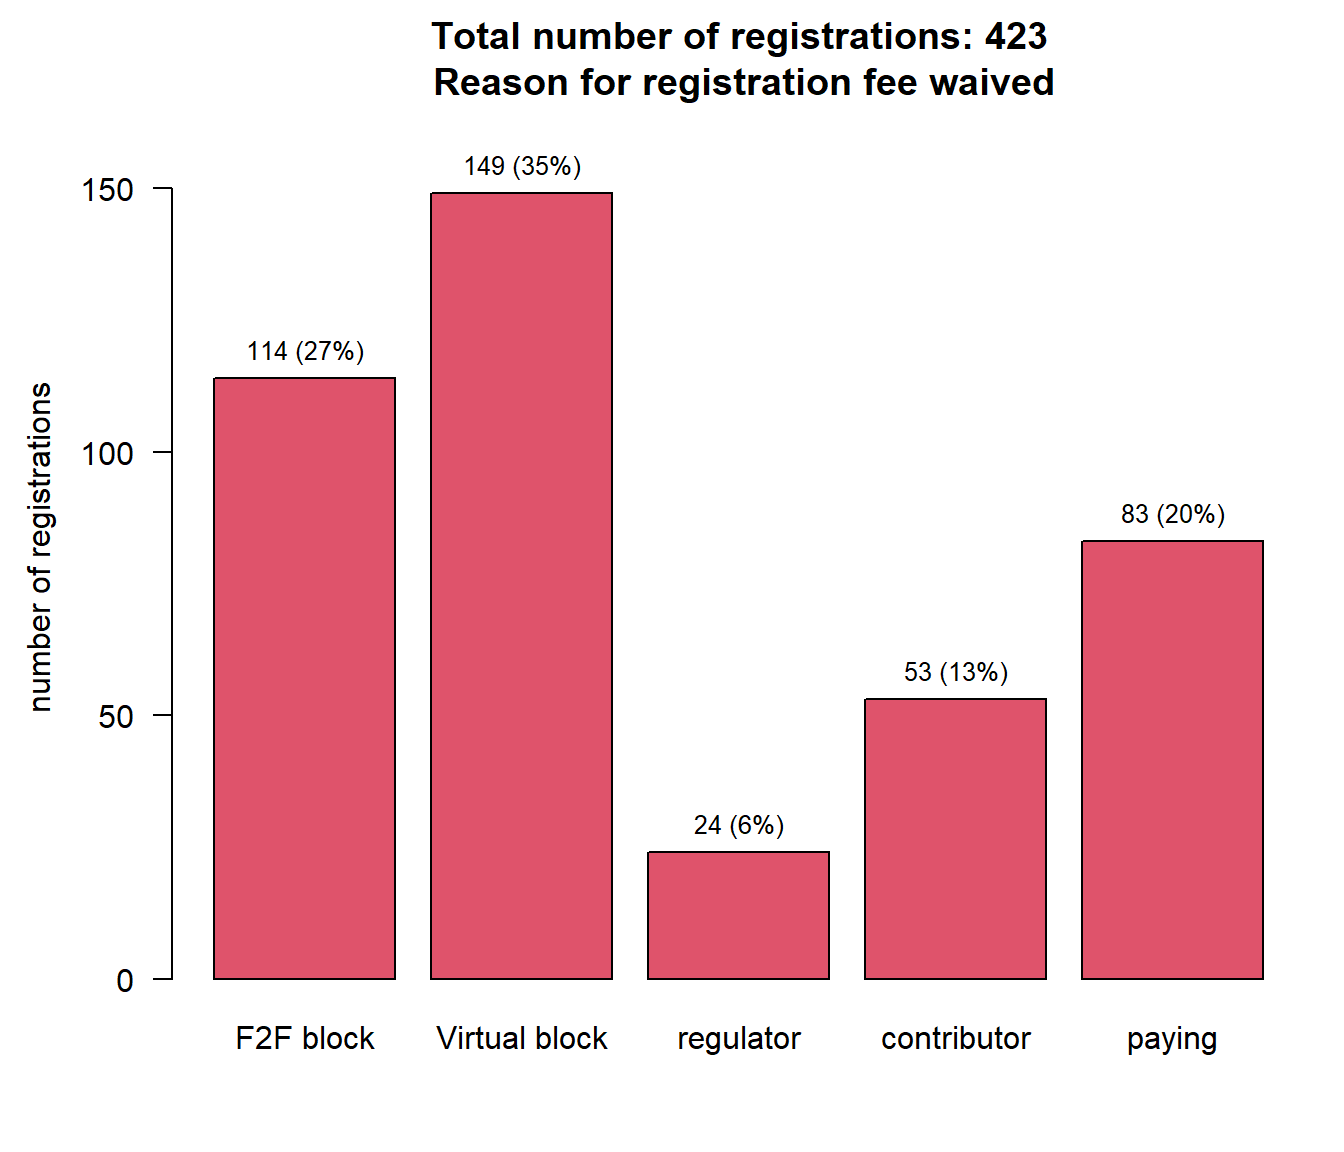
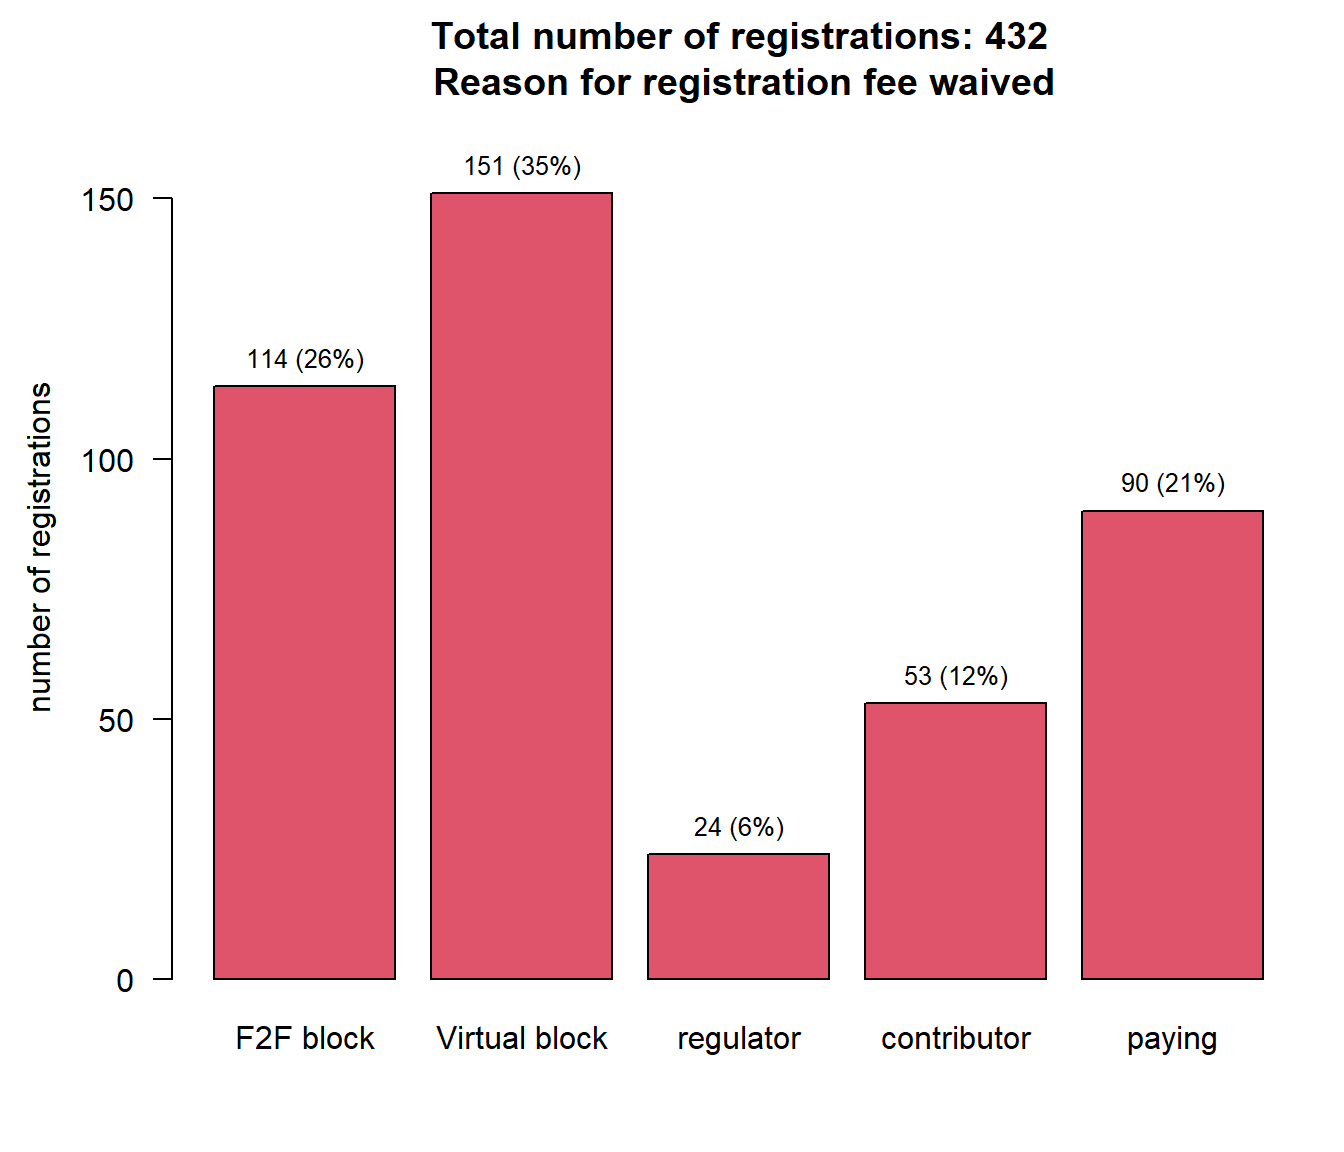
update

diff --git a/docs/data/2025/analysis2025.html b/docs/data/2025/analysis2025.html
@@ -7,7 +7,7 @@
 <meta name="viewport" content="width=device-width, initial-scale=1.0, user-scalable=yes">
 
 <meta name="author" content="Kaspar Rufibach">
-<meta name="dcterms.date" content="2025-07-16">
+<meta name="dcterms.date" content="2025-07-17">
 
 <title>EFSPI regulatory statistics workshop - EFSPI regulatory statistics workshop 2025: analysis of registrations</title>
 <style>
@@ -204,7 +204,7 @@ ul.task-list li input[type="checkbox"] {
     <div>
     <div class="quarto-title-meta-heading">Published</div>
     <div class="quarto-title-meta-contents">
-      <p class="date">July 16, 2025</p>
+      <p class="date">July 17, 2025</p>
     </div>
   </div>
   
@@ -216,7 +216,7 @@ ul.task-list li input[type="checkbox"] {
 
 <section id="data-status" class="level1">
 <h1>Data status</h1>
-<p>Data as of 2025-07-16 at 15:37:12.</p>
+<p>Data as of 2025-07-17 at 11:50:13.</p>
 </section>
 <section id="registrations-by-type-of-institution" class="level1">
 <h1>Registrations by type of institution</h1>
@@ -394,9 +394,9 @@ ul.task-list li input[type="checkbox"] {
 <tr class="header">
 <th style="text-align: left;"></th>
 <th style="text-align: center;">Bayer (N=46)</th>
-<th style="text-align: center;">BMS (N=74)</th>
+<th style="text-align: center;">BMS (N=76)</th>
 <th style="text-align: center;">Merck KGaA (N=46)</th>
-<th style="text-align: center;">Total (N=166)</th>
+<th style="text-align: center;">Total (N=168)</th>
 </tr>
 </thead>
 <tbody>
@@ -410,16 +410,16 @@ ul.task-list li input[type="checkbox"] {
 <tr class="even">
 <td style="text-align: left;">&nbsp;&nbsp;&nbsp;Face-to-face (280 Euro)</td>
 <td style="text-align: center;">12 (26.1%)</td>
-<td style="text-align: center;">3 (4.1%)</td>
+<td style="text-align: center;">3 (3.9%)</td>
 <td style="text-align: center;">2 (4.3%)</td>
-<td style="text-align: center;">17 (10.2%)</td>
+<td style="text-align: center;">17 (10.1%)</td>
 </tr>
 <tr class="odd">
 <td style="text-align: left;">&nbsp;&nbsp;&nbsp;Virtual (70 Euro)</td>
 <td style="text-align: center;">34 (73.9%)</td>
-<td style="text-align: center;">71 (95.9%)</td>
+<td style="text-align: center;">73 (96.1%)</td>
 <td style="text-align: center;">44 (95.7%)</td>
-<td style="text-align: center;">149 (89.8%)</td>
+<td style="text-align: center;">151 (89.9%)</td>
 </tr>
 </tbody>
 </table>

diff --git a/docs/registration_faq.html b/docs/registration_faq.html
@@ -6,7 +6,7 @@
 
 <meta name="viewport" content="width=device-width, initial-scale=1.0, user-scalable=yes">
 
-<meta name="dcterms.date" content="2025-07-09">
+<meta name="dcterms.date" content="2025-07-17">
 
 <title>EFSPI regulatory statistics workshop - Registration for EFSPI regulatory statistics workshop: Frequently asked questions</title>
 <style>
@@ -164,6 +164,7 @@ ul.task-list li input[type="checkbox"] {
    
   <ul>
   <li><a href="#introduction" id="toc-introduction" class="nav-link active" data-scroll-target="#introduction">Introduction</a></li>
+  <li><a href="#are-number-of-participants-limited" id="toc-are-number-of-participants-limited" class="nav-link" data-scroll-target="#are-number-of-participants-limited">Are number of participants limited?</a></li>
   <li><a href="#is-virtual-participation-possible" id="toc-is-virtual-participation-possible" class="nav-link" data-scroll-target="#is-virtual-participation-possible">Is virtual participation possible?</a></li>
   <li><a href="#venue" id="toc-venue" class="nav-link" data-scroll-target="#venue">Venue</a></li>
   <li><a href="#program-and-registration" id="toc-program-and-registration" class="nav-link" data-scroll-target="#program-and-registration">Program and registration</a></li>
@@ -212,7 +213,7 @@ ul.task-list li input[type="checkbox"] {
     <div>
     <div class="quarto-title-meta-heading">Published</div>
     <div class="quarto-title-meta-contents">
-      <p class="date">July 9, 2025</p>
+      <p class="date">July 17, 2025</p>
     </div>
   </div>
   
@@ -225,6 +226,10 @@ ul.task-list li input[type="checkbox"] {
 <section id="introduction" class="level1">
 <h1>Introduction</h1>
 <p>Thanks for your interest in the 10th EFSPI regulatory statistics workshop (<a href="data/2025/10th EFSPI RegStat Workshop program.pdf">draft program, status: 15th July 2025</a>)! This site provides FAQs around registration.</p>
+</section>
+<section id="are-number-of-participants-limited" class="level1">
+<h1>Are number of participants limited?</h1>
+<p>The biozentrum allows for 300 on-site attendees. Registration for face-to-face attendance will be stopped once we reach that number.</p>
 </section>
 <section id="is-virtual-participation-possible" class="level1">
 <h1>Is virtual participation possible?</h1>

diff --git a/docs/data/2024/analysis2024.html b/docs/data/2024/analysis2024.html
@@ -7,7 +7,7 @@
 <meta name="viewport" content="width=device-width, initial-scale=1.0, user-scalable=yes">
 
 <meta name="author" content="Kaspar Rufibach">
-<meta name="dcterms.date" content="2025-07-16">
+<meta name="dcterms.date" content="2025-07-17">
 
 <title>EFSPI regulatory statistics workshop - EFSPI regulatory statistics workshop 2024: analysis of registrations</title>
 <style>
@@ -204,7 +204,7 @@ ul.task-list li input[type="checkbox"] {
     <div>
     <div class="quarto-title-meta-heading">Published</div>
     <div class="quarto-title-meta-contents">
-      <p class="date">July 16, 2025</p>
+      <p class="date">July 17, 2025</p>
     </div>
   </div>
   
@@ -216,7 +216,7 @@ ul.task-list li input[type="checkbox"] {
 
 <section id="data-status" class="level1">
 <h1>Data status</h1>
-<p>Data as of 2025-07-16 at 15:36:55.</p>
+<p>Data as of 2025-07-17 at 11:49:49.</p>
 </section>
 <section id="registrations-by-type-of-institution" class="level1">
 <h1>Registrations by type of institution</h1>

diff --git a/docs/feedback.html b/docs/feedback.html
@@ -7,7 +7,7 @@
 <meta name="viewport" content="width=device-width, initial-scale=1.0, user-scalable=yes">
 
 <meta name="author" content="Kaspar Rufibach">
-<meta name="dcterms.date" content="2025-07-16">
+<meta name="dcterms.date" content="2025-07-17">
 
 <title>EFSPI regulatory statistics workshop - EFSPI regulatory statistics workshop: feedback from previous years</title>
 <style>
@@ -191,7 +191,7 @@ ul.task-list li input[type="checkbox"] {
     <div>
     <div class="quarto-title-meta-heading">Published</div>
     <div class="quarto-title-meta-contents">
-      <p class="date">July 16, 2025</p>
+      <p class="date">July 17, 2025</p>
     </div>
   </div>
   

diff --git a/docs/past_scicom.html b/docs/past_scicom.html
@@ -6,7 +6,7 @@
 
 <meta name="viewport" content="width=device-width, initial-scale=1.0, user-scalable=yes">
 
-<meta name="dcterms.date" content="2025-07-16">
+<meta name="dcterms.date" content="2025-07-17">
 
 <title>EFSPI regulatory statistics workshop - Past workshops: analysis of registrations and feedback (for restricted audience only)</title>
 <style>
@@ -183,7 +183,7 @@ ul.task-list li input[type="checkbox"] {
     <div>
     <div class="quarto-title-meta-heading">Published</div>
     <div class="quarto-title-meta-contents">
-      <p class="date">July 16, 2025</p>
+      <p class="date">July 17, 2025</p>
     </div>
   </div>
   
